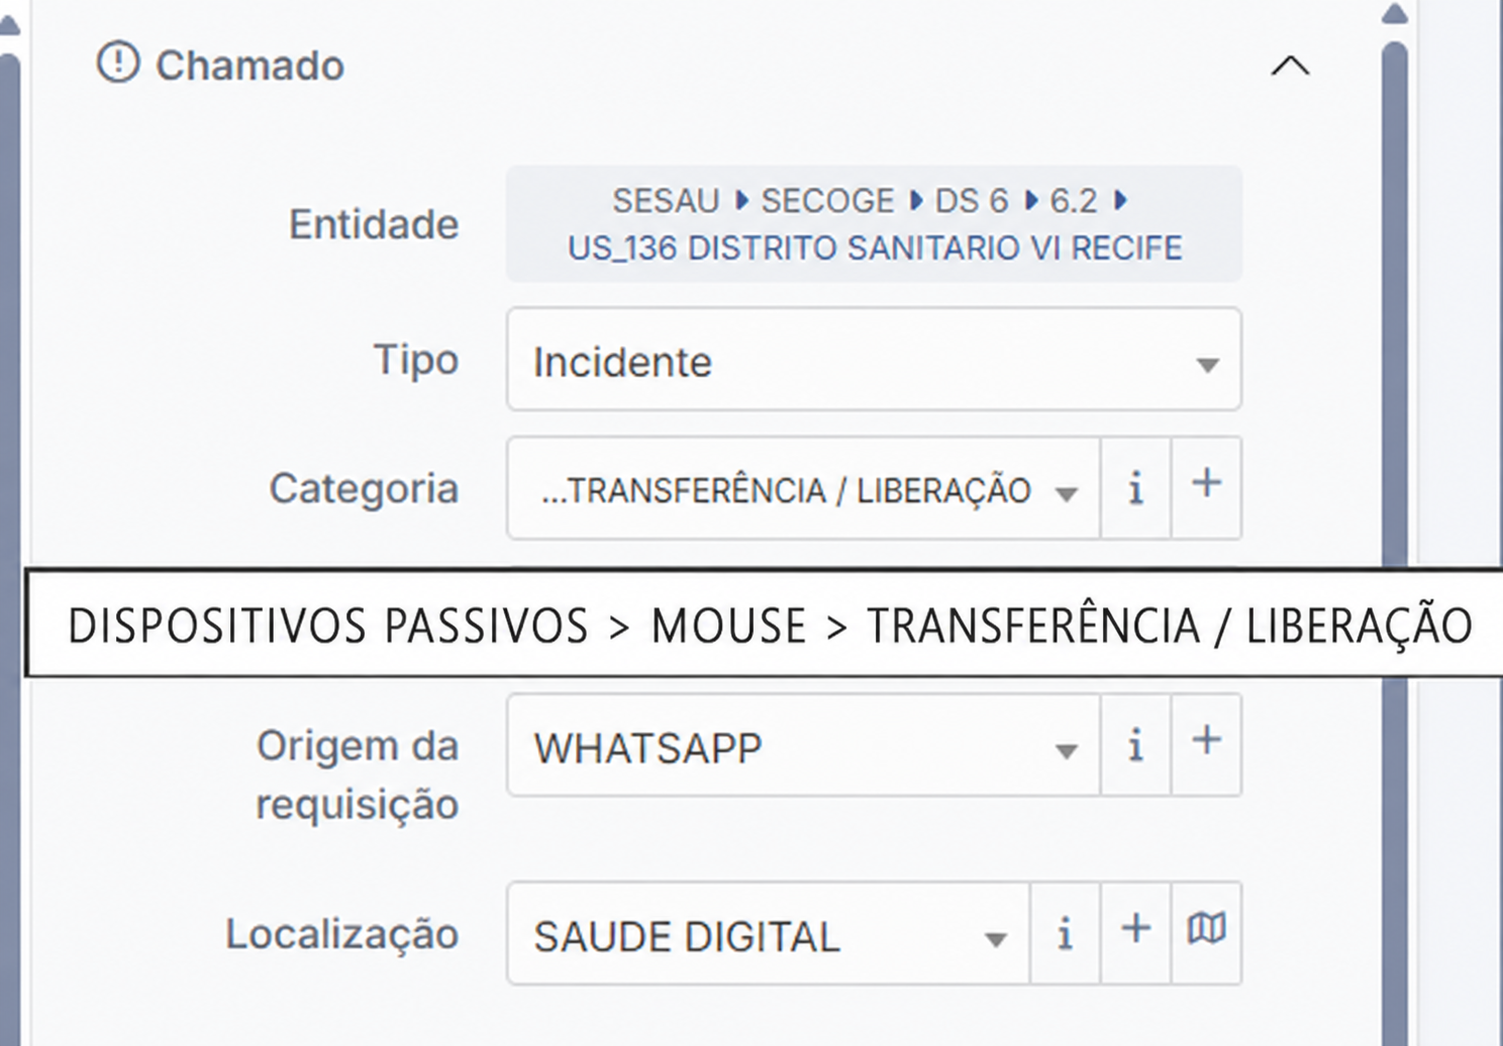
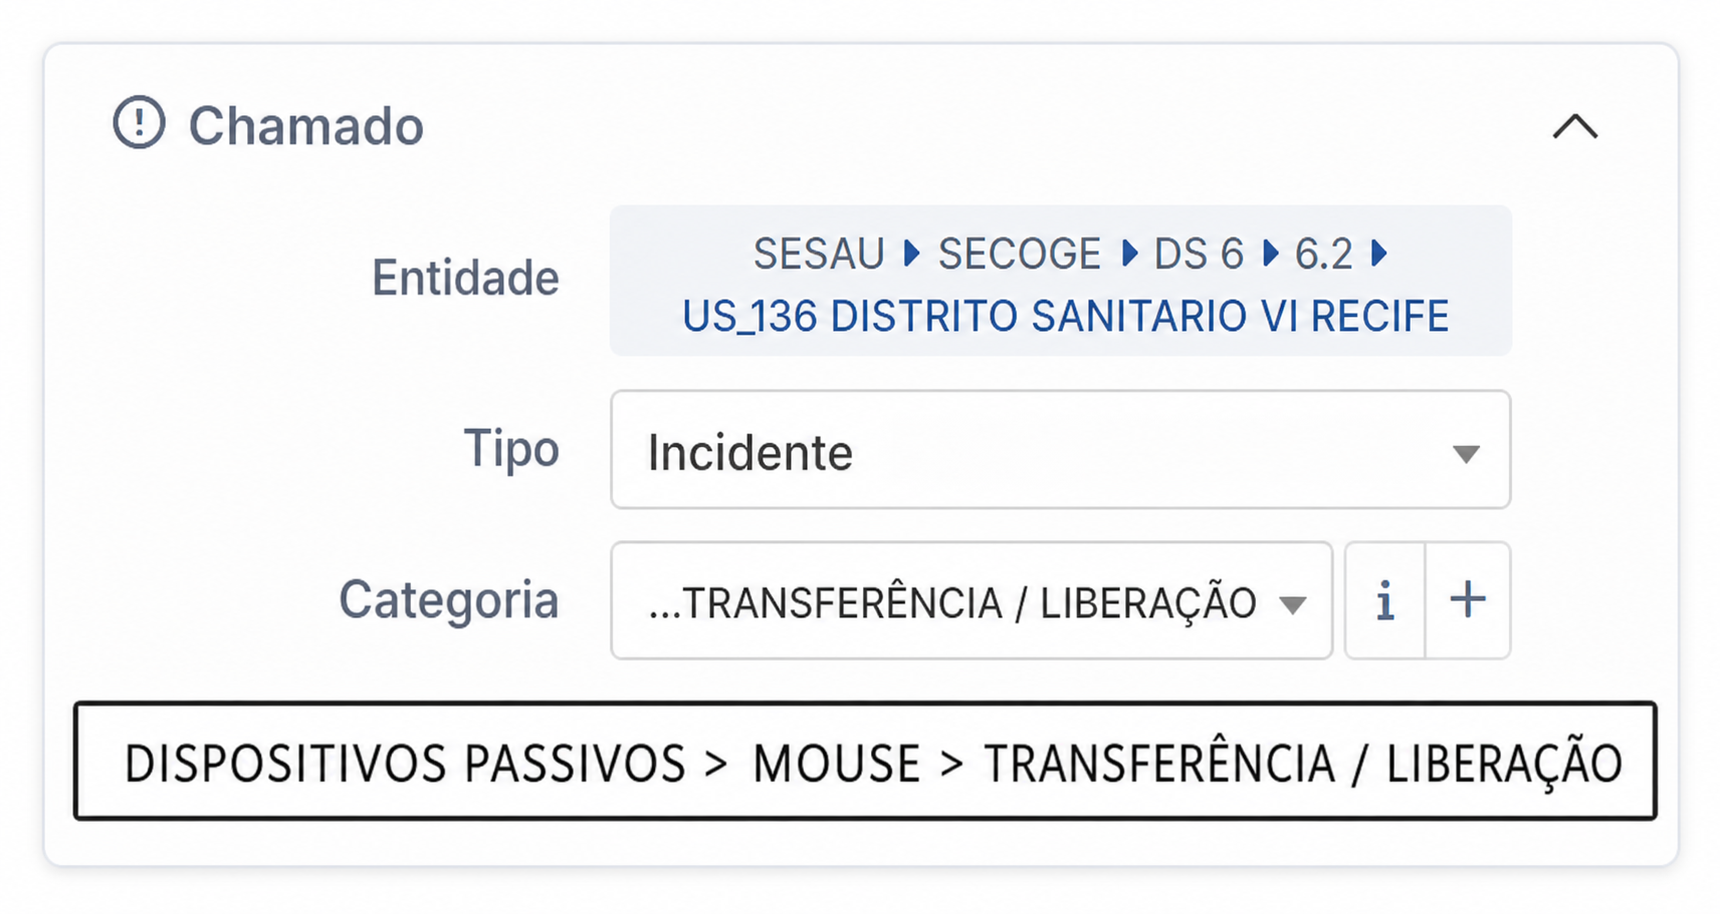
Ordena abertura antes do chamado relacionado

Changed region(s): [[0.0, 0.0, 1.0, 1.0], [0.0612, 0.0306, 0.3061, 0.2451], [0.2142, 0.2757, 0.3367, 0.3676]]

diff --git a/documentações/Processos/processo_dispositivos_passivos_glpi.html b/documentações/Processos/processo_dispositivos_passivos_glpi.html
@@ -115,27 +115,28 @@ body{font-family:'DM Sans',sans-serif;background:var(--paper);color:var(--ink);f
   </div></div>
 </section>
 <section class="section" id="proc2">
-  <h2 class="section-title">Processo 2 <span>Abertura do chamado relacionado</span></h2>
-  <div class="alert warn"><strong>Pré-requisito obrigatório:</strong> confirme que o chamado original está com status <strong>Fechado</strong>. Somente depois abra o novo chamado, relacione-o ao número do chamado encerrado e selecione <strong>Setor Administrativo</strong> no campo <strong>Grupo atribuído</strong>.</div>
-  <div class="process-card open"><div class="process-header" onclick="toggleCard(this)"><span class="process-num">PROCESSO 2</span><span class="process-title">Abrir o chamado relacionado e encaminhar ao Administrativo</span><span class="process-resp">Infraestrutura</span><span class="process-chevron">▼</span></div>
+  <h2 class="section-title">Processo 2 <span>Abertura e relacionamento do novo chamado</span></h2>
+  <div class="alert warn"><strong>Pré-requisito obrigatório:</strong> confirme que o chamado original está com status <strong>Fechado</strong>. Primeiro abra e salve o novo chamado de <strong>Transferência / Liberação</strong>; somente depois relacione-o ao número do chamado anterior encerrado.</div>
+  <div class="process-card open"><div class="process-header" onclick="toggleCard(this)"><span class="process-num">PROCESSO 2</span><span class="process-title">Abrir o novo chamado e depois relacioná-lo ao chamado anterior</span><span class="process-resp">Infraestrutura</span><span class="process-chevron">▼</span></div>
   <div class="process-body">
     <table class="steps-table"><thead><tr><th>Nº</th><th>Ação / Descrição</th><th>Responsável</th><th>Observação</th></tr></thead><tbody>
-      <tr><td class="step-num">1</td><td>Acessar o chamado original encerrado e abrir a seção <strong>Chamado relacionado</strong>.</td><td class="step-resp">Infraestrutura</td><td class="step-obs">O vínculo será criado com o número do chamado anterior.</td></tr>
-      <tr><td class="step-num">2</td><td>Selecionar <strong>Relacionado a</strong> e, na lista suspensa exibida como <strong>“-----”</strong>, digitar o número do chamado anterior encerrado.</td><td class="step-resp">Infraestrutura</td><td class="step-obs">Conferir se o número informado corresponde ao chamado original com status Fechado.</td></tr>
-      <tr><td class="step-num">3</td><td>Abrir o novo chamado no GLPI e preencher os campos de entidade, origem, localização, requerente e descrição com base no chamado anterior.</td><td class="step-resp">Infraestrutura</td><td class="step-obs">Citar o número do incidente original e o diagnóstico técnico.</td></tr>
-      <tr><td class="step-num">4</td><td>No campo <strong>Categoria</strong>, selecionar o caminho do dispositivo e a solicitação. Exemplo: <strong>Dispositivos Passivos &gt; Mouse &gt; Transferência / Liberação</strong>.</td><td class="step-resp">Infraestrutura</td><td class="step-obs">Substituir “Mouse” pelo dispositivo solicitado.</td></tr>
-      <tr><td class="step-num">5</td><td>No campo <strong>Grupo atribuído</strong>, selecionar obrigatoriamente <strong>Setor Administrativo</strong>.</td><td class="step-resp">Infraestrutura</td><td class="step-obs">Conferir o grupo antes de salvar.</td></tr>
-      <tr><td class="step-num">6</td><td>Salvar o chamado e validar se o relacionamento com o chamado original foi registrado corretamente.</td><td class="step-resp">Infraestrutura</td><td class="step-obs">Não concluir a etapa sem confirmar o vínculo.</td></tr>
+      <tr><td class="step-num">1</td><td>Após confirmar o encerramento do incidente original, acessar <strong>Assistência → Criar chamado</strong> para abrir o novo chamado.</td><td class="step-resp">Infraestrutura</td><td class="step-obs">O chamado anterior deve estar com status Fechado.</td></tr>
+      <tr><td class="step-num">2</td><td>Preencher os campos de entidade, tipo, origem, localização, requerente e descrição com base nas informações do chamado anterior.</td><td class="step-resp">Infraestrutura</td><td class="step-obs">Citar na descrição o número do incidente original e o diagnóstico técnico.</td></tr>
+      <tr><td class="step-num">3</td><td>No campo <strong>Categoria</strong>, selecionar o caminho do dispositivo e da solicitação. Exemplo: <strong>Dispositivos Passivos &gt; Mouse &gt; Transferência / Liberação</strong>.</td><td class="step-resp">Infraestrutura</td><td class="step-obs">Substituir “Mouse” pelo dispositivo solicitado.</td></tr>
+      <tr><td class="step-num">4</td><td>No campo <strong>Grupo atribuído</strong>, selecionar obrigatoriamente <strong>Setor Administrativo</strong>.</td><td class="step-resp">Infraestrutura</td><td class="step-obs">Conferir o grupo antes de salvar.</td></tr>
+      <tr><td class="step-num">5</td><td><strong>Salvar o novo chamado</strong> e anotar o número gerado pelo GLPI.</td><td class="step-resp">Infraestrutura</td><td class="step-obs">O relacionamento só será realizado depois que o novo chamado estiver criado.</td></tr>
+      <tr><td class="step-num">6</td><td>No novo chamado, abrir a seção <strong>Chamado relacionado</strong>, selecionar <strong>Relacionado a</strong> e, na lista suspensa <strong>“-----”</strong>, digitar o número do chamado anterior encerrado.</td><td class="step-resp">Infraestrutura</td><td class="step-obs">Informar o número do chamado original, que deve estar com status Fechado.</td></tr>
+      <tr><td class="step-num">7</td><td>Salvar e conferir se o relacionamento entre o novo chamado e o chamado anterior foi registrado corretamente.</td><td class="step-resp">Infraestrutura</td><td class="step-obs">Não encaminhar ao Administrativo sem validar o vínculo.</td></tr>
     </tbody></table>
-    <figure class="process-figure related">
-      <img src="assets/glpi_chamado_relacionado.png" alt="Seção Chamado relacionado do GLPI com a opção Relacionado a">
-      <figcaption class="figure-caption"><strong>Figura 2 — Chamado relacionado.</strong> Selecione <strong>Relacionado a</strong> e use a lista suspensa indicada por <strong>“-----”</strong> para informar o número do chamado anterior encerrado.</figcaption>
-    </figure>
-    <div class="alert info"><strong>Observação:</strong> na lista suspensa <strong>“-----”</strong>, digite o número do chamado anterior já encerrado. Antes de continuar, confirme que o chamado informado está com status <strong>Fechado</strong>.</div>
     <figure class="process-figure">
       <img src="assets/glpi_categoria_transferencia_liberacao.png" alt="Campo Categoria do GLPI preenchido com Dispositivos Passivos, Mouse e Transferência / Liberação">
-      <figcaption class="figure-caption"><strong>Figura 3 — Categorização do chamado relacionado.</strong> Exemplo: <strong>Dispositivos Passivos &gt; Mouse &gt; Transferência / Liberação</strong>. Depois, atribua o chamado ao <strong>Setor Administrativo</strong>.</figcaption>
+      <figcaption class="figure-caption"><strong>Figura 2 — Primeiro, abra e categorize o novo chamado.</strong> Exemplo: <strong>Dispositivos Passivos &gt; Mouse &gt; Transferência / Liberação</strong>. Atribua ao <strong>Setor Administrativo</strong> e salve o chamado.</figcaption>
     </figure>
+    <figure class="process-figure related">
+      <img src="assets/glpi_chamado_relacionado.png" alt="Seção Chamado relacionado do GLPI com a opção Relacionado a">
+      <figcaption class="figure-caption"><strong>Figura 3 — Depois, crie o relacionamento.</strong> Selecione <strong>Relacionado a</strong> e use a lista suspensa indicada por <strong>“-----”</strong> para informar o número do chamado anterior encerrado.</figcaption>
+    </figure>
+    <div class="alert info"><strong>Observação:</strong> a tela de categorização de <strong>Transferência / Liberação</strong> vem primeiro. Somente depois de salvar o novo chamado, acesse <strong>Chamado relacionado</strong> e, na lista suspensa <strong>“-----”</strong>, digite o número do chamado anterior já encerrado.</div>
   </div></div>
 </section>
 <section class="section" id="proc3">
